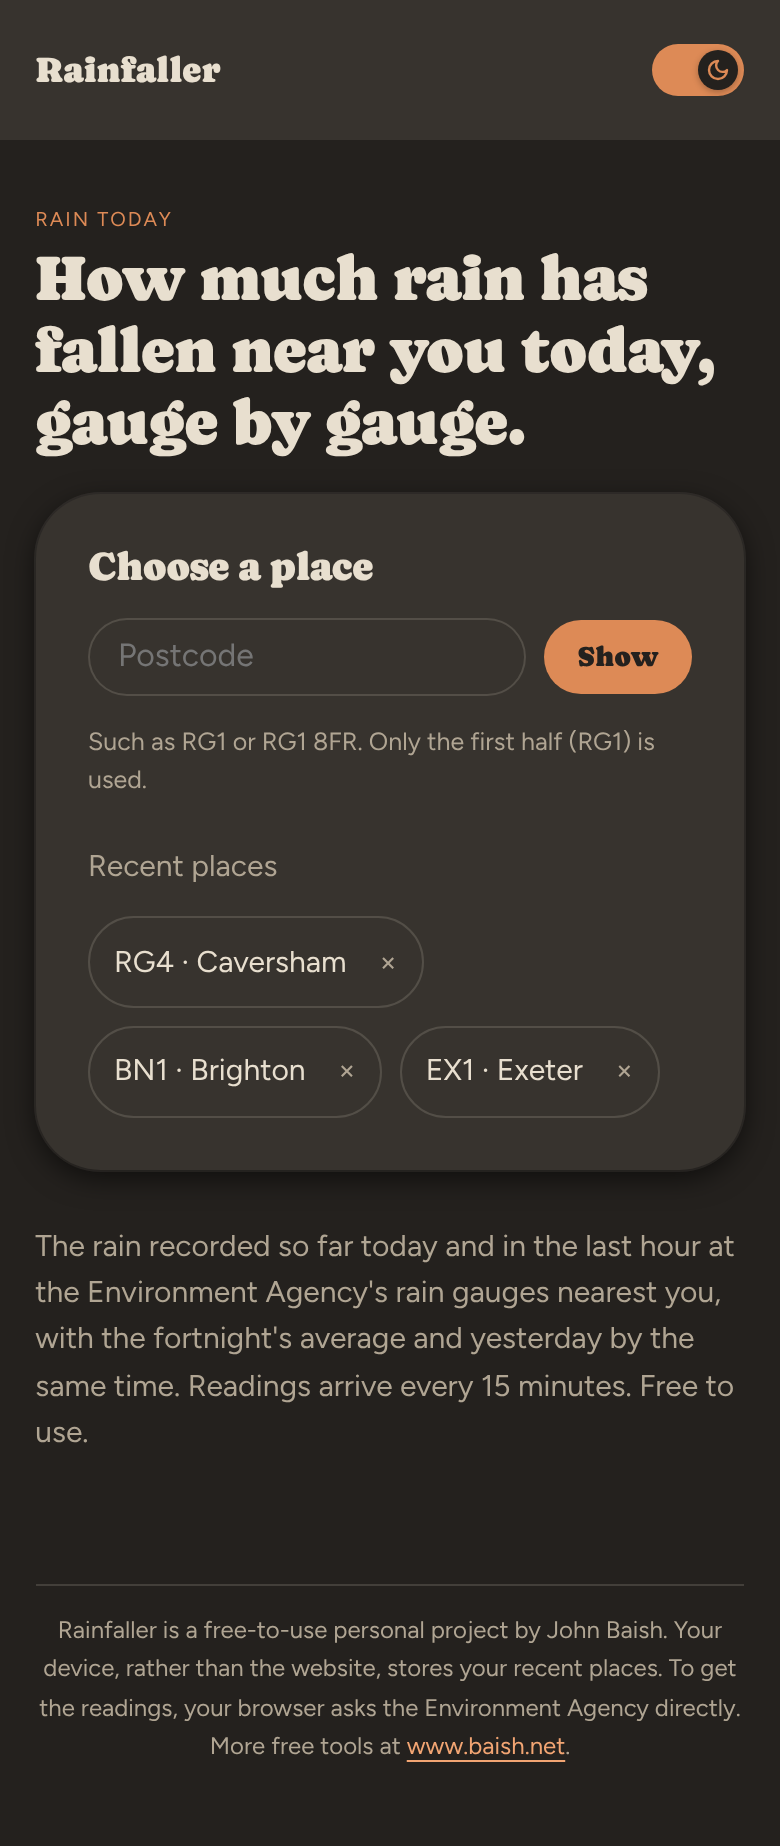
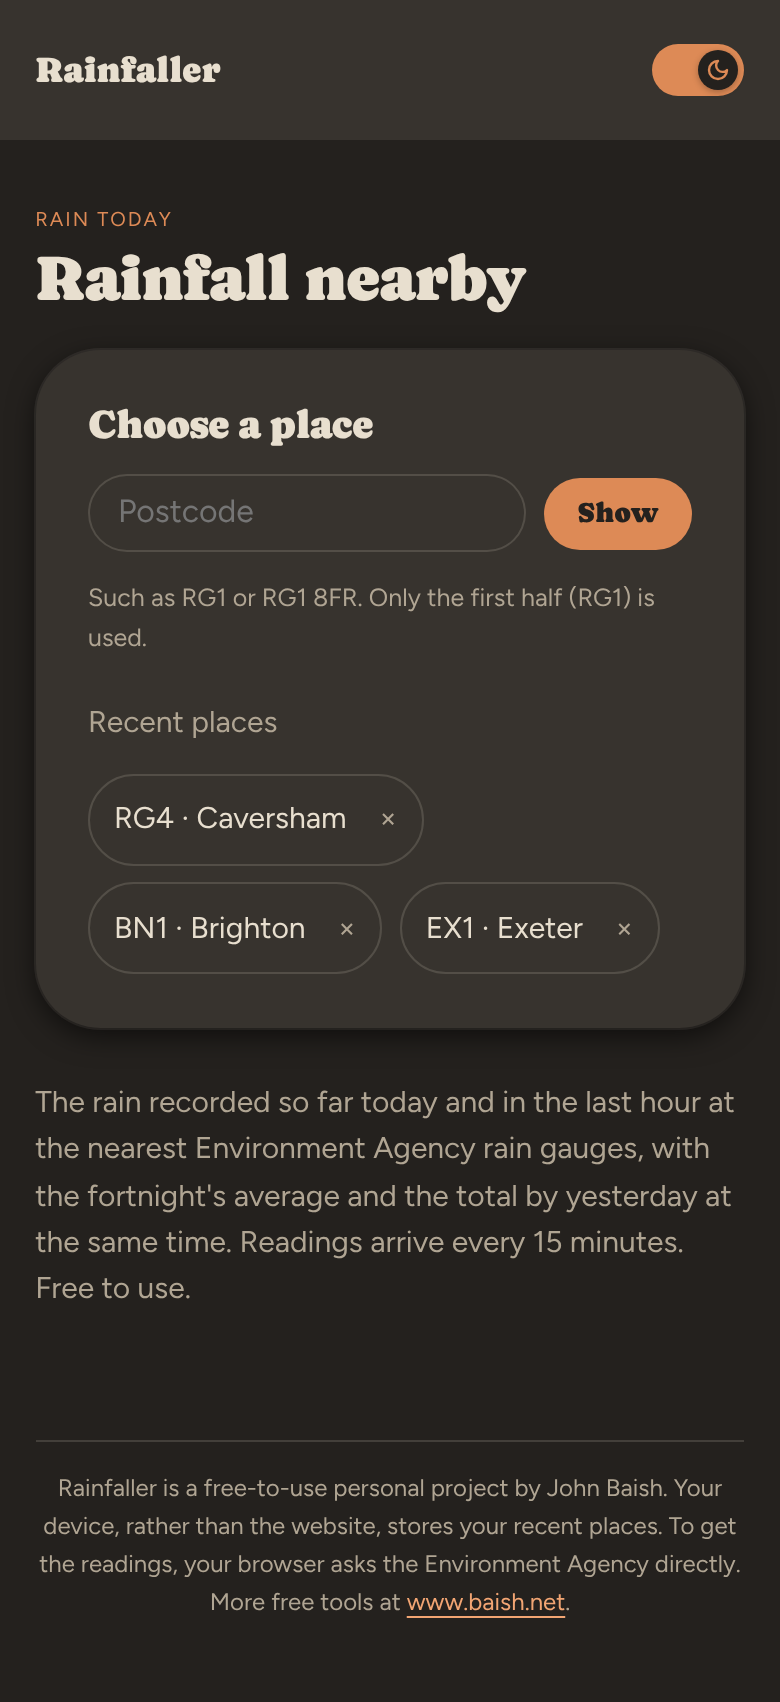
Mock-ups: John's wording
Claude-Session: https://claude.ai/code/session_01BsvHLHypL8GQnzRogV44au

diff --git a/design/mock/mock.html b/design/mock/mock.html
@@ -71,14 +71,29 @@ const lo = Math.min(...ok.map((r) => r.today)), hi = Math.max(...ok.map((r) => r
 const above = ok.filter((r) => r.avg !== null && r.today > r.avg).length;
 const withAvg = ok.filter((r) => r.avg !== null).length;
 
+// John's wording (November 17th 2026); the variants for one gauge, ties, no rain and
+// gauges without an average are Claude's drafts in the same pattern.
+const cap = (s) => s[0].toUpperCase() + s.slice(1);
+const list = (xs) => (xs.length < 2 ? xs.join('') : xs.slice(0, -1).join(', ') + ' and ' + xs[xs.length - 1]);
 function summary() {
+  const of = (k) => (k === ok.length ? `all ${n(k)}` : `${n(k)} of the ${n(ok.length)}`);
+  const top = one(upHour);
+  const topNames = wetHour.filter((r) => one(r.hour) === top).map((r) => esc(r.name));
   const hourLine = wetHour.length === 0
-    ? `No rain in the last hour at any of the ${n(ok.length)} gauges.`
-    : `Rain in the last hour at ${n(wetHour.length)} of the ${n(ok.length)} gauges, up to ${mm(upHour)}.`;
-  const aboveLine = above === withAvg && withAvg === ok.length
-    ? `More than the fortnight's average by this time at all ${n(ok.length)} gauges.`
-    : `More than the fortnight's average by this time at ${n(above)} of the ${n(ok.length)} gauges.`;
-  return `<p>${hourLine}</p><p>So far today: ${one(lo)} to ${mm(hi)}. ${aboveLine}</p>`;
+    ? `There was no rain in the last hour at any of the ${n(ok.length)} gauges.`
+    : wetHour.length === 1
+      ? `There was rain in the last hour at one of the ${n(ok.length)} gauges, ${topNames[0]}, recording ${top} mm.`
+      : `There was rain in the last hour at ${of(wetHour.length)} gauges, the highest of them, at ${list(topNames)}, recording ${top} mm.`;
+  const todayLine = hi === 0
+    ? `None of the ${n(ok.length)} gauges has recorded any rain so far today.`
+    : `The range of rainfall recorded so far today is ${one(lo)} to ${mm(hi)}.`;
+  const among = withAvg === ok.length ? `${n(ok.length)}` : `${n(withAvg)} gauges with an average`;
+  const aboveLine = above === withAvg
+    ? `All ${withAvg === ok.length ? n(ok.length) + ' gauges' : among} had recorded more than the fortnight's average by this time.`
+    : above === 0
+      ? `None of the ${among}${withAvg === ok.length ? ' gauges' : ''} had recorded more than the fortnight's average by this time.`
+      : `${cap(n(above))} of the ${among}${withAvg === ok.length ? ' gauges' : ''} had recorded more than the fortnight's average by this time.`;
+  return `<p>${hourLine}</p><p>${todayLine} ${aboveLine}</p>`;
 }
 
 function todayCell(r) {
@@ -120,7 +135,7 @@ const credit = `<p class="data-credit">This uses Environment Agency rainfall dat
 
 const recent = DATA.recent.map((p) => `<span class="recent-btn"><button type="button">${p}</button><button type="button" class="x" aria-label="Remove ${p}">×</button></span>`).join('');
 
-const chooser = `<div class="chooser-head"><span class="card-kicker">Rain today</span><h2>How much rain has fallen near you today, gauge by gauge.</h2></div>
+const chooser = `<div class="chooser-head"><span class="card-kicker">Rain today</span><h2>Rainfall nearby</h2></div>
   <div class="card" style="padding:var(--space-6);gap:var(--space-3)">
     <h3 style="margin:0;font-size:20px">Choose a place</h3>
     <div class="choose-row"><input class="input" placeholder="Postcode" aria-label="Postcode"><button class="btn btn-primary" type="button">Show</button></div>
@@ -128,9 +143,9 @@ const chooser = `<div class="chooser-head"><span class="card-kicker">Rain today<
     <p class="muted" style="margin:var(--space-2) 0 0">Recent places</p>
     <div class="recent">${recent}</div>
   </div>
-  <p class="chooser-about muted">The rain recorded so far today and in the last hour at the Environment Agency's rain gauges nearest you, with the fortnight's average and yesterday by the same time. Readings arrive every 15 minutes. Free to use.</p>`;
+  <p class="chooser-about muted">The rain recorded so far today and in the last hour at the nearest Environment Agency rain gauges, with the fortnight's average and the total by yesterday at the same time. Readings arrive every 15 minutes. Free to use.</p>`;
 
-const place = `<div class="card strip place-strip"><h2>${DATA.code} · ${esc(DATA.place)}</h2><button class="btn btn-secondary" type="button">Change</button></div>
+const place = `<div class="card strip place-strip"><h2>${DATA.code} · ${n(rows.length)} gauges nearest to ${esc(DATA.place)}</h2><button class="btn btn-secondary" type="button">Change</button></div>
   <div class="fresh"><p class="muted">Readings to ${DATA.cut}. Checked at ${DATA.checked}.</p><button class="btn btn-secondary" type="button">Refresh</button></div>
   <div class="card roundup">${summary()}</div>
   <section class="source">

diff --git a/design/mock/mock.template.html b/design/mock/mock.template.html
@@ -71,14 +71,29 @@ const lo = Math.min(...ok.map((r) => r.today)), hi = Math.max(...ok.map((r) => r
 const above = ok.filter((r) => r.avg !== null && r.today > r.avg).length;
 const withAvg = ok.filter((r) => r.avg !== null).length;
 
+// John's wording (November 17th 2026); the variants for one gauge, ties, no rain and
+// gauges without an average are Claude's drafts in the same pattern.
+const cap = (s) => s[0].toUpperCase() + s.slice(1);
+const list = (xs) => (xs.length < 2 ? xs.join('') : xs.slice(0, -1).join(', ') + ' and ' + xs[xs.length - 1]);
 function summary() {
+  const of = (k) => (k === ok.length ? `all ${n(k)}` : `${n(k)} of the ${n(ok.length)}`);
+  const top = one(upHour);
+  const topNames = wetHour.filter((r) => one(r.hour) === top).map((r) => esc(r.name));
   const hourLine = wetHour.length === 0
-    ? `No rain in the last hour at any of the ${n(ok.length)} gauges.`
-    : `Rain in the last hour at ${n(wetHour.length)} of the ${n(ok.length)} gauges, up to ${mm(upHour)}.`;
-  const aboveLine = above === withAvg && withAvg === ok.length
-    ? `More than the fortnight's average by this time at all ${n(ok.length)} gauges.`
-    : `More than the fortnight's average by this time at ${n(above)} of the ${n(ok.length)} gauges.`;
-  return `<p>${hourLine}</p><p>So far today: ${one(lo)} to ${mm(hi)}. ${aboveLine}</p>`;
+    ? `There was no rain in the last hour at any of the ${n(ok.length)} gauges.`
+    : wetHour.length === 1
+      ? `There was rain in the last hour at one of the ${n(ok.length)} gauges, ${topNames[0]}, recording ${top} mm.`
+      : `There was rain in the last hour at ${of(wetHour.length)} gauges, the highest of them, at ${list(topNames)}, recording ${top} mm.`;
+  const todayLine = hi === 0
+    ? `None of the ${n(ok.length)} gauges has recorded any rain so far today.`
+    : `The range of rainfall recorded so far today is ${one(lo)} to ${mm(hi)}.`;
+  const among = withAvg === ok.length ? `${n(ok.length)}` : `${n(withAvg)} gauges with an average`;
+  const aboveLine = above === withAvg
+    ? `All ${withAvg === ok.length ? n(ok.length) + ' gauges' : among} had recorded more than the fortnight's average by this time.`
+    : above === 0
+      ? `None of the ${among}${withAvg === ok.length ? ' gauges' : ''} had recorded more than the fortnight's average by this time.`
+      : `${cap(n(above))} of the ${among}${withAvg === ok.length ? ' gauges' : ''} had recorded more than the fortnight's average by this time.`;
+  return `<p>${hourLine}</p><p>${todayLine} ${aboveLine}</p>`;
 }
 
 function todayCell(r) {
@@ -120,7 +135,7 @@ const credit = `<p class="data-credit">This uses Environment Agency rainfall dat
 
 const recent = DATA.recent.map((p) => `<span class="recent-btn"><button type="button">${p}</button><button type="button" class="x" aria-label="Remove ${p}">×</button></span>`).join('');
 
-const chooser = `<div class="chooser-head"><span class="card-kicker">Rain today</span><h2>How much rain has fallen near you today, gauge by gauge.</h2></div>
+const chooser = `<div class="chooser-head"><span class="card-kicker">Rain today</span><h2>Rainfall nearby</h2></div>
   <div class="card" style="padding:var(--space-6);gap:var(--space-3)">
     <h3 style="margin:0;font-size:20px">Choose a place</h3>
     <div class="choose-row"><input class="input" placeholder="Postcode" aria-label="Postcode"><button class="btn btn-primary" type="button">Show</button></div>
@@ -128,9 +143,9 @@ const chooser = `<div class="chooser-head"><span class="card-kicker">Rain today<
     <p class="muted" style="margin:var(--space-2) 0 0">Recent places</p>
     <div class="recent">${recent}</div>
   </div>
-  <p class="chooser-about muted">The rain recorded so far today and in the last hour at the Environment Agency's rain gauges nearest you, with the fortnight's average and yesterday by the same time. Readings arrive every 15 minutes. Free to use.</p>`;
+  <p class="chooser-about muted">The rain recorded so far today and in the last hour at the nearest Environment Agency rain gauges, with the fortnight's average and the total by yesterday at the same time. Readings arrive every 15 minutes. Free to use.</p>`;
 
-const place = `<div class="card strip place-strip"><h2>${DATA.code} · ${esc(DATA.place)}</h2><button class="btn btn-secondary" type="button">Change</button></div>
+const place = `<div class="card strip place-strip"><h2>${DATA.code} · ${n(rows.length)} gauges nearest to ${esc(DATA.place)}</h2><button class="btn btn-secondary" type="button">Change</button></div>
   <div class="fresh"><p class="muted">Readings to ${DATA.cut}. Checked at ${DATA.checked}.</p><button class="btn btn-secondary" type="button">Refresh</button></div>
   <div class="card roundup">${summary()}</div>
   <section class="source">

diff --git a/SPEC.md b/SPEC.md
@@ -13,8 +13,9 @@ Hindcaster's repo; moved here the same day. The data tests behind it are in
 
 **Agreed (John, November 17th 2026):** a new site, separate from Hindcaster,
 because Hindcaster is about yesterday and this is about today. The name
-**Rainfaller** and the tagline "How much rain has fallen near you today, gauge
-by gauge." are agreed.
+**Rainfaller** is agreed. The chooser's heading is "Rainfall nearby" (John,
+November 17th 2026, replacing the earlier tagline "How much rain has fallen
+near you today, gauge by gauge."); the link-preview wording is settled in stage 4.
 
 Address: `rainfaller.baish.net` (proposed). Repo: `JohnBaish/rainfaller`,
 public (made by John, November 17th 2026).
@@ -47,11 +48,22 @@ view, nearest first. For each:
 - the time of the latest reading ("to 2.45pm"). A gauge more than an hour
   behind is shown in grey with "Latest reading 11.15am".
 
-**Agreed:** one short summary line above the list, worked out from the eight:
+**Agreed (John, November 17th 2026, after the mock-ups):** the strip at the top
+reads "RG4 · EIGHT GAUGES NEAREST TO CAVERSHAM", and the summary above the list:
 
-- "Rain in the last hour at three of the eight gauges, up to 1.2 mm."
-- "No rain in the last hour at any of the eight gauges."
-- "So far today: 0.4 to 6.8 mm."
+- "There was rain in the last hour at four of the eight gauges, the highest of
+  them, at Yattendon, recording 0.4 mm."
+- "The range of rainfall recorded so far today is 8.2 to 13.7 mm. All eight
+  gauges had recorded more than the fortnight's average by this time."
+
+Drafts in the same pattern, for John: one gauge ("…at one of the eight gauges,
+Yattendon, recording 0.4 mm."), a tie ("…at Cleeve and Benson, recording
+0.1 mm."), no rain ("There was no rain in the last hour at any of the eight
+gauges."; "None of the eight gauges has recorded any rain so far today."), and
+some or none above the average ("Five of the eight gauges had…", "None of the
+eight gauges had…"; "…of the seven gauges with an average…" when one has too
+few days). Also agreed: the late gauge's "Not available" and "Latest reading
+7.45am", the failed gauge's sentence, and the line above the list.
 
 A small bar beside each "Today" figure, as Hindcaster's gauge lists have.
 

diff --git a/CLAUDE.md b/CLAUDE.md
@@ -85,3 +85,13 @@ can carry it).
 
 **Verified:** no page errors, no sideways scroll at any size, all four brand fonts loaded. Fonts were loaded by
 path at render time (they come with the app's build later). Not merged.
+
+### 2026-11-17 — mock-ups: John's wording (branch `stage-1-mockups`)
+
+**John:** the summary reworded ("There was rain in the last hour at four of the eight gauges, the highest of them, at
+Yattendon, recording 0.4 mm." / "The range of rainfall recorded so far today is 8.2 to 13.7 mm. All eight gauges had
+recorded more than the fortnight's average by this time."), the strip "RG4 · EIGHT GAUGES NEAREST TO CAVERSHAM", the
+chooser's heading "Rainfall nearby" and its paragraph reworded; drafts 2 to 4 agreed. Done in the mock and `SPEC.md`,
+with drafts for one gauge, ties, no rain and gauges without an average (the edge illustration shows a tie). Dark mode
+checked against HOUSE-STYLE §2: page `#24211e`, cards `#37332e` with the shadow, as agreed on November 14th. Pictures
+re-rendered: no errors, no sideways scroll, fonts loaded.
